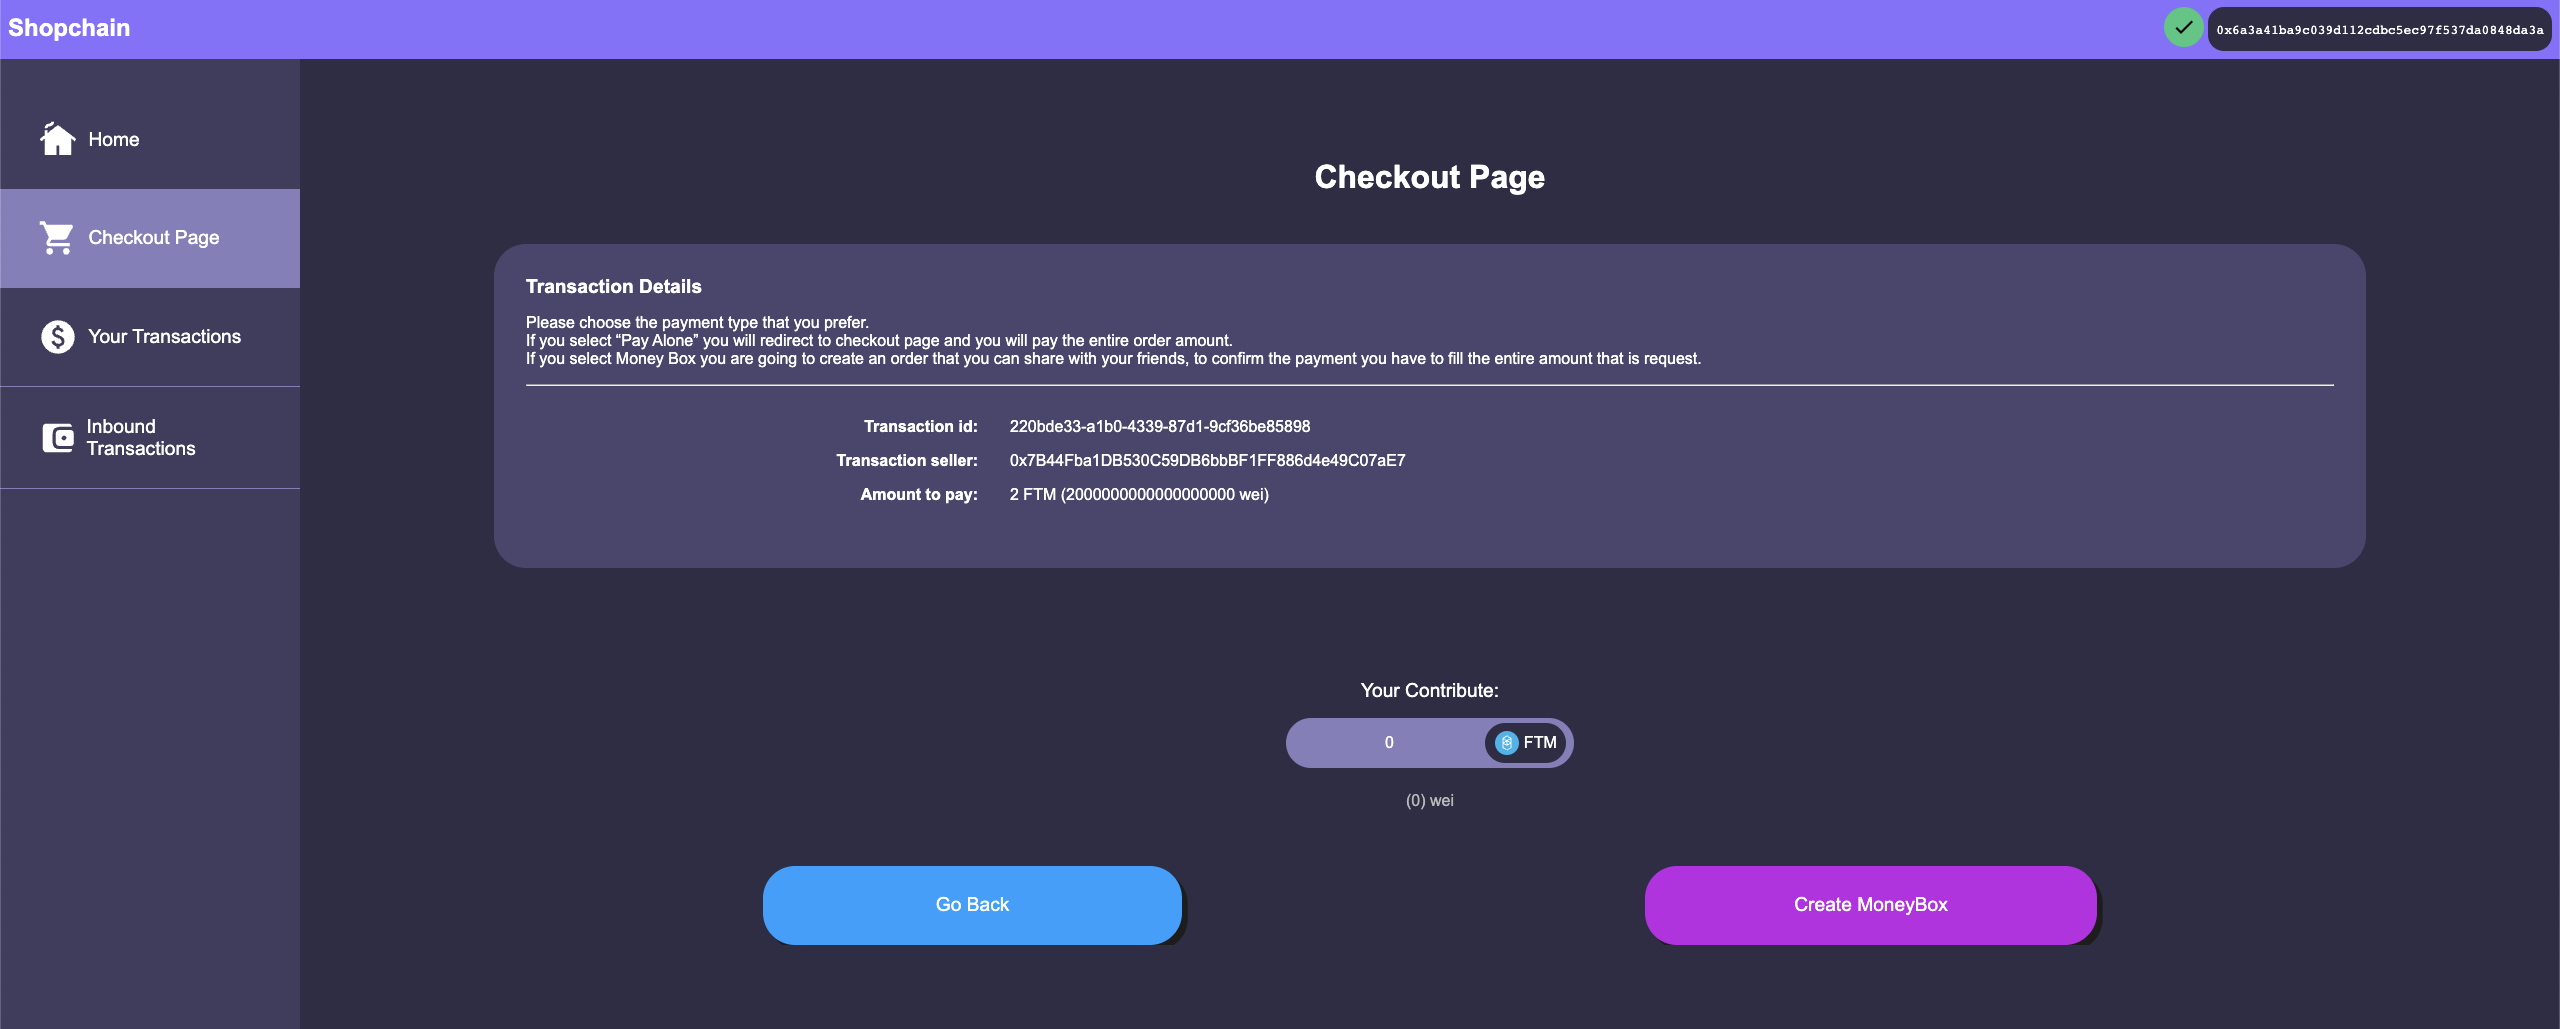
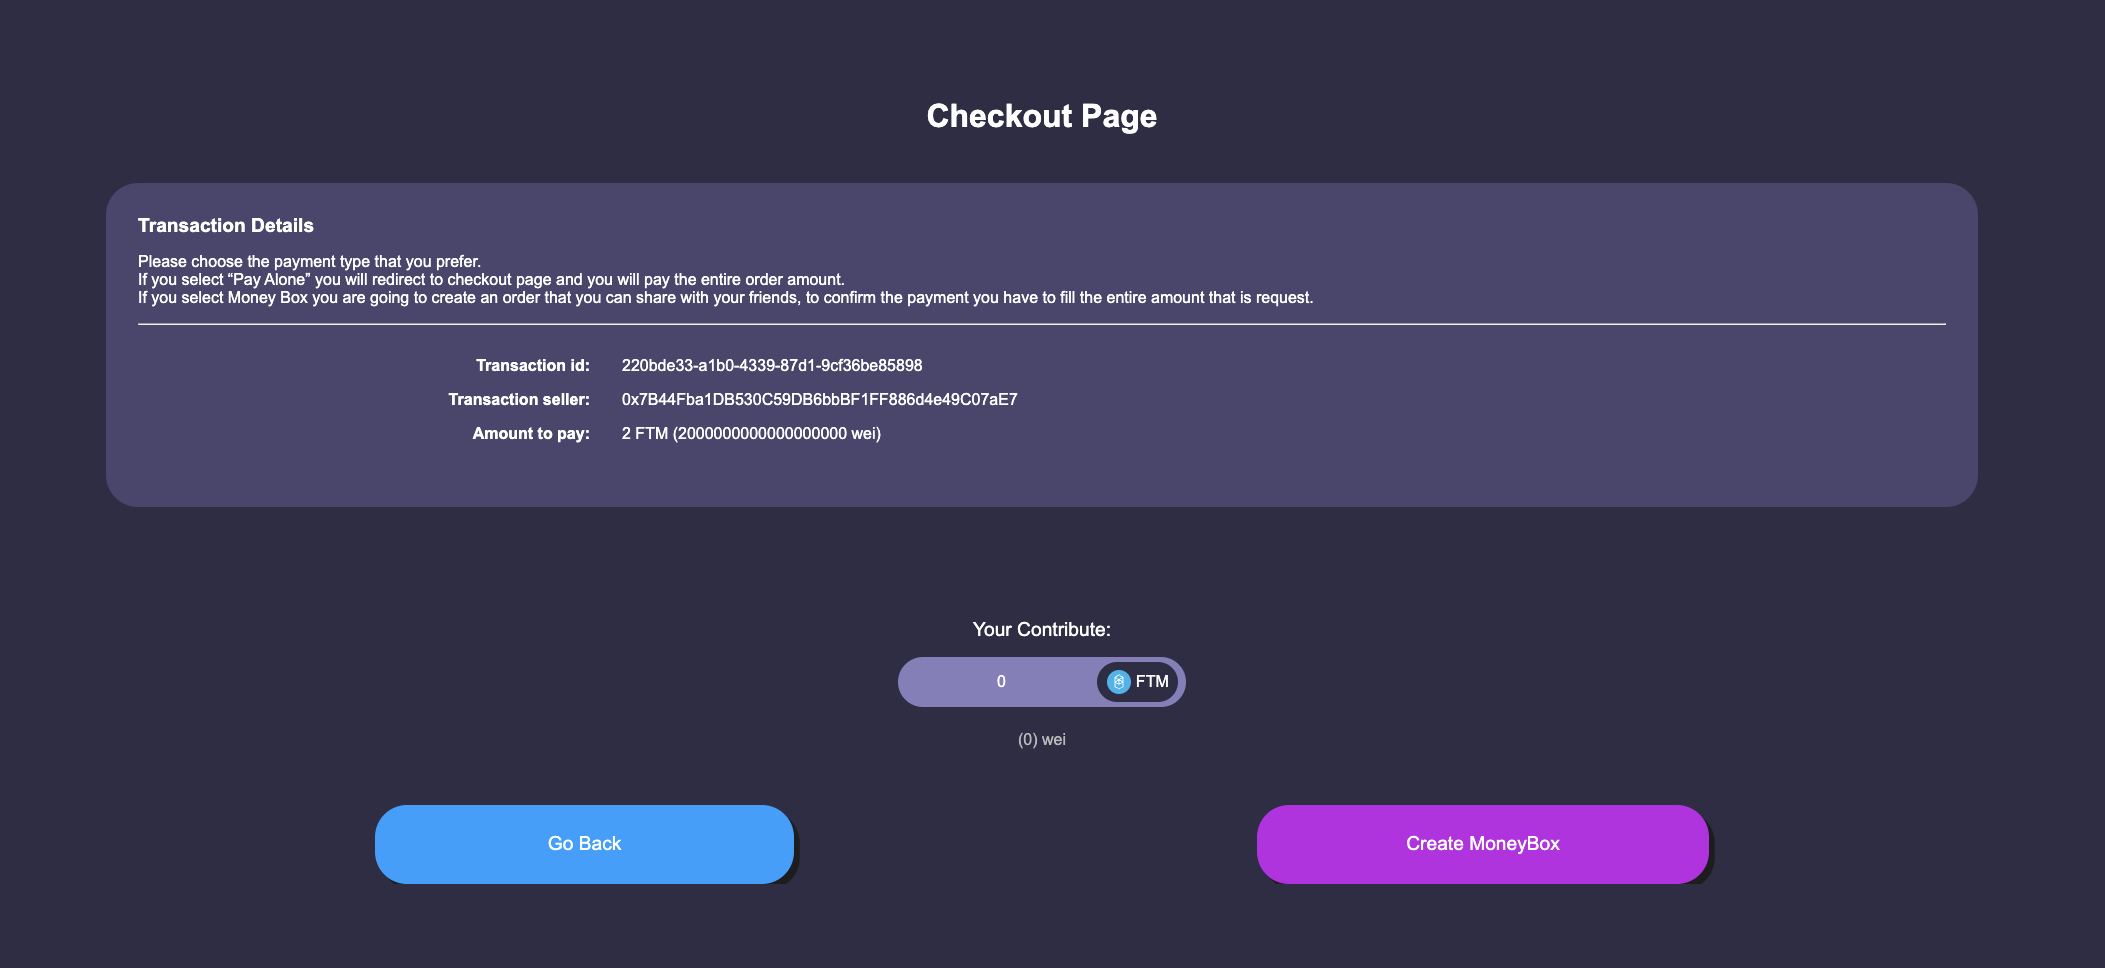
final (?)

diff --git a/src/manuale_utente/sezioni/ShopChain.tex b/src/manuale_utente/sezioni/ShopChain.tex
@@ -62,7 +62,7 @@ La figura seguente evidenzia in maniera specifica i tre pannelli usando i colori
         Cliccando il link alla Checkout Page nel menù verremo reindirizzati alla seguente pagina:
         \begin{figure}[H]
             \centering
-            \includegraphics[scale=0.2]{immagini/Checkout/Checkout.png}
+            \includegraphics[scale=0.3]{immagini/Checkout/Checkout.png}
             \caption{Checkout Page}
         \end{figure}
         \textbf{}\\
@@ -189,120 +189,144 @@ La figura seguente evidenzia in maniera specifica i tre pannelli usando i colori
             \includegraphics[scale=0.3]{immagini/Checkout/RefundPopUp.png} 
             \caption{Popup di rimborso}
         \end{figure}
-
         \subsubsection{Transazioni}
-
-
-            \paragraph{Dettagli della transazione}
-
-            Dopo aver cliccato il bottone, all'utente verrà presentato il riepilogo dell'ordine, e verra messa a disposizione la possibilità
-            di pagare interamente l'ordine o di creare una MoneyBox per lo stesso.
-
-            %immagine pagina dettagli transazione
-
-            \paragraph{Visualizzazione Transazioni}
-
-            Tornando alla pagina Home, rimangono due bottoni nel menù di sinistra: "Your Transactions" e "Inbound Transactions".
-            Cliccando su di essi si apriranno, rispettivamente, le pagine per visualizzare le transazioni in uscita dal proprio account e quelle in entrata.
-
-
-                \subparagraph{Transazioni in uscita}
-
-                \begin{figure}[H]
+        In questa sezione verranno approfondite le sezioni \texttt{"Your Transactions"} e \texttt{"Inbound Transactions"} del menù di navigazione.\\
+        Tali sezioni vengono affrontate insieme in quanto molto simili tra di loro.\\
+        In particolare:
+        \begin{itemize}
+            \item \textbf{Your Transaction}: L'utente acquirente può trovare in questa sezione l'elenco dei pagamenti e dei contributi moneybox effettuati con ShopChain;
+            \item \textbf{Inbound Transaction}: L'utente venditore può trovare in questa sezione l'elenco dei pagamenti in entrata da ShopChain.
+        \end{itemize}
+        \paragraph{Your Transaction}
+        La pagina delle transazioni in uscita, "Your Transactions", è divisa in due sezioni:
+        \begin{itemize}
+            \item Yuor Transactions: in questa sezione sono riportati gli ordini \textbf{creati} dall'utente siano essi di tipo Single Payment o Moneybox;
+            \item Your Contributions: in questa sezione sono riportati gli ordini di tipo MoneyBox a cui l'utente ha contribuito.
+        \end{itemize}
+        \begin{figure}[H]
+        \centering
+        \includegraphics[scale=0.2]{immagini/Transaction/YourTransaction.png}
+        \caption{Pagina Your Transaction}
+        \end{figure}
+        \paragraph{Inbound Transactions}
+        La pagina delle transazioni in entrata, "Inbound Transactions", mostra la sezione con le transazioni in entrata verso il wallet dell'utente venditore.\\\\
+        \textbf{N.B.} \textit{L'utente venditore potrà vedere esclusivamente le transazioni già sbloccate.}\\
+        \begin{figure}[H]
+            \centering
+            \includegraphics[scale=0.4]{immagini/Transaction/inboundTransactions.png}
+            \caption{Pagina Inbound Transactions}
+        \end{figure}
+        \paragraph{Filtri nelle pagine Transactions}
+        Come si può notare dalle immagini precedenti, entrambe le pagine presentano una sezione con menù a tendina.\\
+        Tale sezione serve a filtrare gli ordini in base al loro tipo e al loro stato.\\
+        In particolare:
+        \begin{itemize}
+            \item il \textbf{tipo} può assumere i seguenti valori:
+            \begin{itemize}
+                \item \textbf{All}: Seleziona tutti gli ordini;
+                \item \textbf{Single Payment}: Seleziona solo gli ordini di tipo Single Payment;
+                \item \textbf{MoneyBox Payment}: Seleziona solo gli ordini di tipo MoneyBox.
+            \end{itemize}
+            \begin{figure}[H]
+                \centering
+                \includegraphics[scale=0.4]{immagini/Transaction/ordertype.jpg}
+            \caption{Filtro per la scelta del tipo dell'ordine}
+            \end{figure}
+            \item Lo \textbf{Stato} può assumere i seguenti valori:
+            \begin{itemize}
+                \item \textbf{All}: Seleziona tutti gli ordini;
+                \item \textbf{To Pay}: Seleziona solo gli ordini che non sono ancora stati pagati;
+                \item \textbf{Payd but locked}: Seleziona solo gli ordini in stato "Paid" (che non sono ancora stati sbloccati);
+                \item \textbf{Unlocked}: Seleziona solo gli ordini in stato "Unlocked" (che sono state sbloccate);
+                \item \textbf{Refunded}: Seleziona solo gli ordini in stato "Refunded" (che sono state rimborsate).
+            \end{itemize}
+            \begin{figure}[H]
+                \centering
+                \includegraphics[scale=0.4]{immagini/Transaction/orderstate.jpg}
+                \caption{Filtro per la scelta dello stato dell'ordine}
+            \end{figure}
+        \end{itemize}
+        
+        \paragraph{Scheda della transazione}
+        In questa sezione analizzeremo in maniera dettagliata la scheda di una singola transazione presente all'interno delle pagine riguardanti le transazioni.
+        Prendiamo come esempio le schede presenti nell'immagine seguente:
+        \begin{figure}[H]
+            \centering
+            \includegraphics[scale=0.4]{immagini/Transaction/transactionsmall.jpg}
+            \caption{Due esempi di transazione nella lista "Your Transactions"}
+        \end{figure}
+        \textbf{}\\
+        In dettaglio, le transazioni presentano le proprie informazioni più importanti, quali:
+        \begin{itemize}
+             \item \textbf{Id del pagamento}: univoco, cliccabile, che rimanda alla pagina di riepilogo della transazione;
+            \item \textbf{Indirizzo wallet acquirente} (o nel caso della moneybox, indirizzo del creatore della moneybox);
+            \item \textbf{Icona che identifica il tipo del pagamento};
+            \item \textbf{Icona che identifica lo stato del pagamento} (pagato, non pagato o rimborsato);
+            \item \textbf{Icona che identifica lo stato del denaro} (bloccato o sbloccato);
+            \item \textbf{Ammontare pagato} in Fantom\glo{} (FTM\glo{}).
+        \end{itemize}
+        Vediamo nel seguito come possono cambiare alcuni elementi:
+            \subparagraph{Icona che identifica il tipo del pagamento}
+            Può assumere due forme:
+            \begin{itemize}
+                \item \textbf{Pagamento singolo}
+                \item \textbf{Pagamento Moneybox}
+            \end{itemize}
+            \begin{figure}[H]
+                \centering
+                \begin{minipage}{0.45\textwidth}
                     \centering
-                    \includegraphics[scale=0.4]{immagini/Transaction/transactionview.jpg}
-                    \caption{La vista delle transazioni in uscita}
-                \end{figure}
-
-                La pagina delle transazioni in uscita, "Your Transactions", è divisa in due sezioni:
-                \begin{itemize}
-                    \item Yuor Transactions: in questa sezione sono riportati gli ordini \textbf{creati} dall'utente;
-                    \item Your Contributions: in questa sezione sono riportati gli ordini di tipo MoneyBox a cui l'utente ha pertecipato.
-                \end{itemize}
-
-                \paragraph{Transazioni in entrata}
-
-                \begin{figure}[H]
+                    \includegraphics[scale=0.8]{immagini/Transaction/singleIcon.png} 
+                    \caption{Icona pagamento singolo}
+                \end{minipage}\hfill
+                \begin{minipage}{0.45\textwidth}
+                \centering
+                    \includegraphics[scale=0.8]{immagini/Transaction/MoneyBoxIcon.png} 
+                    \caption{Icona pagamento MoneyBox}
+                \end{minipage}
+            \end{figure}
+            \subparagraph{Icona che identifica lo stato del pagamento}
+            Può assumere tre forme ben distinguibili dal colore:
+            \begin{itemize}
+                \item \textbf{Verde}: L'ordine si trova in stato "Paid";
+                \item \textbf{Giallo}: L'ordine si trova in stato "Created";
+                \item \textbf{Rosso}: L'ordine si trova in stato "Refunded"
+            \end{itemize}
+            \textbf{N.B.} \textit{Il giallo può apparire solo in ordini di tipo MoneyBox}
+            \begin{figure}[H]
+                \centering
+                \begin{minipage}{0.33\textwidth}
                     \centering
-                    \includegraphics[scale=0.4]{immagini/Transaction/inboundtransactions.jpg}
-                    \caption{La vista delle transazioni in entrata}
-                \end{figure}
-
-                Viceversa, la pagine delle transazioni in entrata, "Inbound Transactions", mostra solo una sezione con le transazioni effettuate verso il wallet dell'utente.
-
-                \subparagraph{Ordinamento transazioni}
-
-                L'applicazione offre la possibilità di ordinare l'elenco delle transazioni in due possibili modalità, combinabili tra loro: 
-                "Order Type", il tipo dell'ordine, e "Order State", lo stato corrente dell'ordine.
-                La scelta è effettuata tramite un apposito menu a tendina.
-
-                \begin{figure}[H]
+                    \includegraphics[scale=0.6]{immagini/Transaction/Paid.png} 
+                    \caption{Stato: Paid}
+                \end{minipage}\hfill
+                \begin{minipage}{0.33\textwidth}
+                \centering
+                    \includegraphics[scale=0.6]{immagini/Transaction/Created.png} 
+                    \caption{Stato: Created}
+                \end{minipage}
+                \begin{minipage}{0.33\textwidth}
                     \centering
-                    \includegraphics[scale=0.4]{immagini/Transaction/ordertype.jpg}
-                \caption{Menu per la scelta del tipo di ordine}
-                \end{figure}
-
-                Il tipo di ordine potrà essere:
-                \begin{itemize}
-                    \item All: tutti i tipi di ordine;
-                    \item Single Payment: pagamento singolo;
-                    \item MoneyBox: pagamento creato come MoneyBox dall'utente.
-                \end{itemize}
-
-                \begin{figure}[H]
-                    \centering
-                    \includegraphics[scale=0.4]{immagini/Transaction/orderstate.jpg}
-                    \caption{Menu per la scelta dello stato dell'ordine}
-                \end{figure}
-
-                Lo stato dell'ordine invece:
-                \begin{itemize}
-                \item All: tutti i tipi di stato;
-                    \item To Pay: il pagamento deve ancora essere completato;
-                    \item Paid but Locked: il pagamento è stato effettuato interamente, ma non ancora sbloccato;
-                    \item Unlocked: il pagamento è stato effettuato e sbloccato;
-                    \item Refunded: il pagamento è stato rimborsato.
-                \end{itemize}
-
-                L'ordinamento delle transazioni è disponibile sia per le transazioni in entrata che per quelle in uscita, e funziona in identico modo in entrambe le pagine.
-
-                \paragraph{Transazione in dettaglio}
-
-                \begin{figure}[H]
-                    \centering
-                    \includegraphics[scale=0.4]{immagini/Transaction/transactionsmall.jpg}
-                    \caption{Due esempi di transazione nella lista "Your Transactions"}
-                \end{figure}
-
-                In dettaglio, le transazioni nelle liste sopracitate presentano all'utente le proprie informazioni più importanti.
-
-                \begin{itemize}
-                    \item l'id univoco del pagamento, cliccabile, che rimanda alla pagina di riepilogo dell'ordine, mostrata nella sezione ??;
-                    \item l'indirizzo wallet dell'utente;
-                    \item un'icona per identificare il tipo di pagamento, singolo o MoneyBox;
-                    \item un'icona a forma di simbolo del dollaro per mostrare visivamente se la cifra richiesta è stata pagata interamente o meno;
-                    \item un'icona a forma di lucchetto per mostrate visivamente lo stato del pagamento;
-                    \item l'ammontare in FTM pagato.
-                \end{itemize}
-
-                L'icona di identificazione può assumere due forme: un icona di un uomo per il pagamento singolo, e l'icona di un maialino per il pagamento MoneyBox.
-
-                \begin{figure}[H]
-                    \centering
-                    \begin{minipage}{0.45\textwidth}
-                        \centering
-                        \includegraphics[scale=1]{immagini/uomo.jpg} 
-                        \caption{Icona pagamento singolo}
-                    \end{minipage}\hfill
-                    \begin{minipage}{0.45\textwidth}
-                    \centering
-                        \includegraphics[scale=1]{immagini/piggy.jpg} 
-                        \caption{Icona pagamento MoneyBox}
+                        \includegraphics[scale=0.6]{immagini/Transaction/Refunded.png} 
+                        \caption{Stato: Refunded}
                     \end{minipage}
-                \end{figure}
-
-                L'icona di stato dell'ammontare pagato può assumere i seguenti colori: \textbf{verde}, se l'ammontare richiesto è stato raggiunto, o \textbf{giallo} nel caso sia ancora da raggiungere.\\
-
-                L'icona di stato del pagamento avrà un colore diverso a seconda dello stato corrente del pagamento: \textbf{verde} per i pagamenti effettuati e sbloccati, 
-                \textbf{giallo} per i pagamenti completati non ancora sbloccati o non ancora interi, \textbf{rosso} per i pagamenti rimborsati.
-
+            \end{figure}
+            \subparagraph{Icona che identifica lo stato del denaro}
+            Può assumere due forme ben distinguibili dal colore:
+            \begin{itemize}
+                \item \textbf{Giallo}: L'ordine si trova in stato "Paid" o "Created". Il denaro si trova ancora all'interno dello smart contract\glo{};
+                \item \textbf{Verde}: L'ordine si trova in stato "Unlocked". Il denaro è stato trasferito al wallet\glo{} del venditore.
+            \end{itemize}
+            \begin{figure}[H]
+                \centering
+                \begin{minipage}{0.45\textwidth}
+                    \centering
+                    \includegraphics[scale=0.8]{immagini/Transaction/Locked.png} 
+                    \caption{Stato: "Paid" o "Created"}
+                \end{minipage}\hfill
+                \begin{minipage}{0.45\textwidth}
+                    \centering
+                    \includegraphics[scale=0.8]{immagini/Transaction/Unlocked.png} 
+                    \caption{Stato: "Unlocked"}
+                \end{minipage}
+            \end{figure}

diff --git a/src/manuale_utente/sezioni/metamask.tex b/src/manuale_utente/sezioni/metamask.tex
@@ -80,4 +80,6 @@ Per comodità vengono riportati i dati:
     \item Symbol: FTM
 \end{itemize}
 Una volta riempito il form cliccare il tasto \texttt{Salva}.\\
-A questo punto, una volta caricato denaro nel portafogli, sarà possibile utilizzare la piattaforma.
+A questo punto, una volta caricato denaro nel portafogli, sarà possibile utilizzare la piattaforma.\\\\
+\textbf{Si raccomanda inoltre l'utente di notare che ciascuna operazione che prevede l'interazione con MetaMask (quali il pagamento, lo sblocco, il rimborso, la creazione della moneybox e il versamento di un contributo) prevedono il pagamento di gasfee, ovvero un ammontare variabile, generalmente piccolo, come commissione per il pagamento.\\
+Tale ammontare è indipendente da ShopChain o MetaMask, risulta invece essere indispensabile per permettere alla blockchain\glo{} di registrare i blocchi all'interno dei quali è possibile reperire le transazioni.}

diff --git a/src/manuale_utente/sezioni/glossario.tex b/src/manuale_utente/sezioni/glossario.tex
@@ -27,3 +27,9 @@
 	name={Fantom},
 	description={Blockchain\glo{} relativamente recente nata nel dicembre 2019 e si basa su un proprio algoritmo di consenso personalizzato. Vanta come punto di forza la velocità relativa alle transazioni, dichiara inferiore ai due secondi dagli sviluppatori stessi}
 }
+
+\newglossaryentry{FTM}
+{
+	name={FTM},
+	description={Simbolo di valuta di Fantom}
+}

diff --git a/src/manuale_utente/sezioni/supporto_tecnico.tex b/src/manuale_utente/sezioni/supporto_tecnico.tex
@@ -5,5 +5,5 @@ Quando ci segnalate un problema cortesemente riportate:
 \begin{itemize}
     \item il browser utilizzato;
     \item la sequenza di passi che portano all' errore;
-    \item se l'errore riguarda Metamask\glo{} e la tipologia di errore.
+    \item se l'errore riguarda Metamask e la tipologia di errore.
 \end{itemize}

diff --git a/src/manuale_utente/manuale_utente.tex b/src/manuale_utente/manuale_utente.tex
@@ -40,7 +40,6 @@
 	\input{contenuto/changelog} \pagebreak
 	\renewcommand{\contentsname}{Contenuti}
 	\tableofcontents \pagebreak
-	\listoftables \pagebreak
 	\listoffigures \pagebreak
 	%%%%%%%%%%%%%%%%%%%%%%%%%%%%%%%%%%%%%%%%%%%%%%%%%%%%%%%%%%%%%%%
 	
